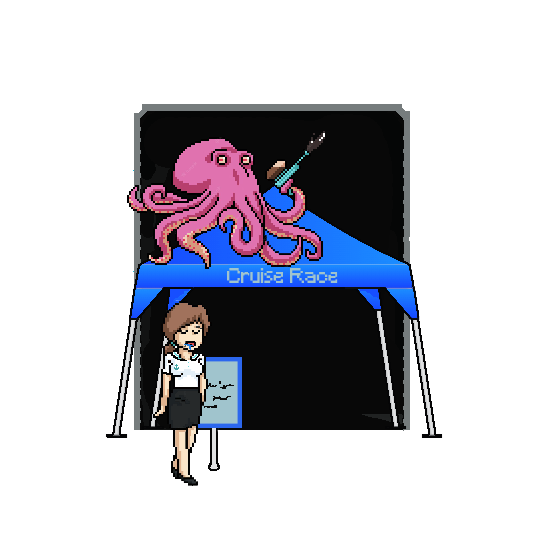
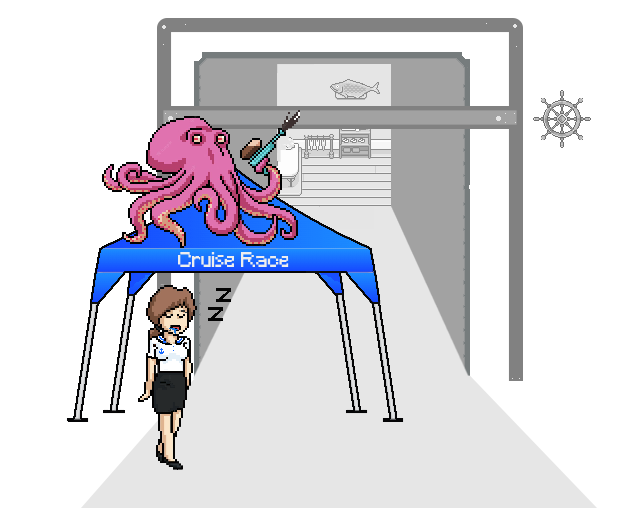
CSS Update

diff --git a/index.html b/index.html
@@ -4,27 +4,67 @@
     <meta charset="UTF-8">
     <meta http-equiv="X-UA-Compatible" content="IE=edge">
     <meta name="viewport" content="width=device-width, initial-scale=1.0">
-    <link href="docs/assets/styles/style.css">
+    <link rel="preconnect" href="https://fonts.googleapis.com">
+    <link rel="preconnect" href="https://fonts.gstatic.com" crossorigin>
+    <link href="https://fonts.googleapis.com/css2?family=Roboto+Mono:ital,wght@0,200;0,300;0,400;0,600;1,100;1,400&display=swap" rel="stylesheet">
+    <link rel="stylesheet" href="docs/assets/styles/style.css">
     <title>Project 1</title>
 </head>
 <body>
     <div>
-    <h1>CRUISE RACE</h1>
-    </div>    
-    <style></style>
-    <style></style>
-    <!-- Create start-screen here  -->
+    <h1><img src="docs/assets/images/porthole.jpg">CRUISE RACE<img src="/docs/assets/images/porthole.jpg"></h1>
+    </div>  
+    <div>
+        <h3><h3>
+        <article></article>    
+    </div>
+        <!-- Create start-screen here  -->
     <!-- On css create a class hidden that has visibility: hidden /display: none -->
     <!-- Once you press start, toggle that class onto the start-screen -->
     <!-- <div id="start-screen">Hello</div>
     <div id="game-over"></div> -->
-    <canvas id="canvas" width="1420" height="500" style="border: 2px solid grey"></canvas>
-    <script src="docs/assets/scripts/controlers.js"></script>
-    <script src="docs/assets/scripts/helpers"></script>
-    <script src="docs/assets/scripts/obstacles"></script>
-    <script src="docs/assets/scripts/door.js"></script>
-    <script src="docs/assets/scripts/player_nd_door.js"></script>
-    <script src="docs/assets/scripts/game.js"></script>
-    <script src="docs/assets/scripts/index.js"></script>
+    <div>
+    <canvas id="canvas" width="1420" height="500"></canvas>
+    </div>
+    <div class="game">
+    <div id="intro">    
+        <h3>Cruise Race</h3>
+        <br>
+        <p>You don't need to rush while on vacation, but granny got lost on the Lisbon layover and ran late to continue her cruise adventure...
+            The ship is about to leave, hurry up - if you can - and help granny get on the cruise.</p>
+        <img src="docs/assets/images/cruise.png">    
+      </div> 
+      <hr> 
+        <div class="instructions">
+        <div id="controls">    
+        <h3>Controls</h3>
+        <br>
+        <p>Use<b style="color: deeppink"> RIGHT </b> and <b style="color: deeppink"> LEFT </b> arrows to move granny - and yes... she walks extremely slowly (Be patient or catch some HELPERS).
+            The <b style="color: deeppink"> SPACE </b> button puts you back in the initial position without restarting the game.</p>
+        </div>    
+        <br>
+        <br>
+        <div id="objects">    
+        <h3>Objects</h3> 
+        <br>
+        <ul>
+            <li #id="li1"><img src="docs/assets/images/ancor.png"><p><b style="color:deeppink">OBSTACLES:</b>How can anchors fall from the sky? Anyway... These elements are heavy and would immediately kill granny. Be extremely careful and avoid them!</p></li>
+            <br>
+            <li #id="li2"><img src="docs/assets/images/drink.png"><p><b style="color:deeppink">HELPERS:</b> A sip of martini for the vacation mood! It will speed up granny so she can get on the cruise ship right on time</p></li>
+            <br>
+            <li #id="li3"><img src="docs/assets/images/key.png"><p><b style="color:deeppink">KEY:</b> Granny is very distracted, so you must catch her boarding pass. Without it, you will not be able to enter the cruise.</p></li>
+        </ul>
+        </div>        
+    </div>  
+    </div>    
+    <div>
+        <script src="docs/assets/scripts/controlers.js"></script>
+        <script src="docs/assets/scripts/helpers"></script>
+        <script src="docs/assets/scripts/obstacles"></script>
+        <script src="docs/assets/scripts/door.js"></script>
+        <script src="docs/assets/scripts/player_nd_door.js"></script>
+        <script src="docs/assets/scripts/game.js"></script>
+        <script src="docs/assets/scripts/index.js"></script>
+    </div>   
 </body>
 </html>

diff --git a/docs/assets/styles/style.css b/docs/assets/styles/style.css
@@ -1,0 +1,126 @@
+@font-face{font-family:arcadeclassic;font-style:normal;font-weight:400;src:local('ArcadeClassic'),url(https://fonts.cdnfonts.com/s/6071/ARCADECLASSIC.woff) format('woff')};
+@font-face {
+    font-family: 'ProggyCleanTTSZBP';
+    font-style: normal;
+    font-weight: 400;
+    src: local('ProggyCleanTTSZBP'), url('https://fonts.cdnfonts.com/s/7514/ProggyCleanSZBP.woff') format('woff');
+}
+@font-face {
+    font-family: 'ProggyCleanTTSZ';
+    font-style: normal;
+    font-weight: 400;
+    src: local('ProggyCleanTTSZ'), url('https://fonts.cdnfonts.com/s/7514/ProggyCleanSZ.woff') format('woff');
+}
+@font-face {
+    font-family: 'ProggyCleanTT';
+    font-style: normal;
+    font-weight: 400;
+    src: local('ProggyCleanTT'), url('https://fonts.cdnfonts.com/s/7514/ProggyClean.woff') format('woff');
+}
+
+
+* {
+    margin: 0;
+    padding: 0;
+}
+
+body {
+    display: flex;
+    flex-wrap: wrap;
+    flex-direction: column;
+    align-content: center;
+}
+
+h1 {
+    padding: 20px;
+    text-align: center;
+    color: darkblue;
+    font-size: 90px;
+    font-family: 'ArcadeClassic', sans-serif
+}
+
+h3 {
+    font-family: 'ArcadeClassic', sans-serif;
+    font-size: 40px;
+    color: deeppink
+}
+
+h1 img {
+    width: 100px;
+    height: 101px;
+    padding: 1px 60px;
+}
+
+p {
+    font-family:'ProggyCleanTT', sans-serif;
+    font-size: 20px;
+}
+
+#canvas {
+    display: flex;
+    flex-wrap: wrap;
+    flex-direction: column;
+    align-content: center;
+    background-color: aquamarine;
+    margin: auto;
+}
+
+.game {
+    display: flex;
+    flex-direction: row;
+    align-content: space-between;
+    columns: 2;
+    padding: 1px 80px;
+    margin: 30px;
+}
+
+#intro {
+    display: flex;
+    flex-wrap: wrap;
+    flex-direction: column;
+    align-content: center;
+    text-align: center;
+    border: solid 1px blue;
+    padding: 40px 50px;
+}
+
+#intro img {
+    width: 674px;
+    height: 500px;
+}
+
+#intro p {
+    text-align: center;
+    font-size: 40px;
+}
+
+.instructions {
+    display: flex;
+    flex-wrap: wrap;
+    flex-direction: column;
+    align-content: center;
+    border: solid 1px blue;
+    padding: 40px 50px;
+}
+
+.instructions ul {
+    list-style: none;
+    padding-left: 11px;
+    padding-right: 20px;
+}
+
+.instructions img {
+    width: 30px;
+    height: 40px;
+}
+#controls {
+    text-align: justify;
+    font-size: 20px;
+    color: darkblue
+}
+#objects  {
+    font-size: 18px;
+    margin: 10px
+}
+
+

diff --git a/docs/assets/scripts/game.js b/docs/assets/scripts/game.js
@@ -11,23 +11,32 @@ class Game {
     this.key = [];
     this.intervalId = null;     //the def. of game's interval
     this.frames = 0;          // Can use for ex. track of the time / frequency of enemies 
+    this.background = new Image();
     this.hasKey = false;
 }
 
    start() {
     this.intervalId = setInterval(this.update, 1000 / 60); //last element is the vel
 }
+drawBackground() {
+  this.background.src = "docs/assets/images/background.png";
+  this.ctx.drawImage(this.background, 0, 0, 1420, 500);
+}
 
    clear() {
-    this.ctx.clearRect(0, 0, this.width, this.height);
-    ctx.fillStyle = 'lightblue'
-    ctx.fillRect (0, 0, 1420, 400);
-    ctx.fillStyle = 'lightgrey'
-    ctx.fillRect (0, 400, 1420, 100);
+    // this.image = new Image();
+    // this.image.src = "docs/assetes/images/background";
+    // ctx.drawImage(this.image, this.x, this.y, this.w, this.h);
+    // this.ctx.clearRect(0, 0, this.width, this.height);
+    // ctx.fillStyle = 'lightblue'
+    // ctx.fillRect (0, 0, 1420, 400);
+    // ctx.fillStyle = 'lightgrey'
+    // ctx.fillRect (0, 400, 1420, 100);
 }
 
    update = () => {
     this.frames++;           //increase things based on frames - see the func below
+    this.drawBackground();
     this.clear();
     this.door.draw();
     this.player.draw();
@@ -65,7 +74,7 @@ class Game {
      this.turbo.push(new Turbo(Math.floor(Math.random() * 1300), 0, 30, 50, 'white'));
  }
   if (this.frames % 900 === 0 ){ 
-     this.key.push(new Key(Math.floor(Math.random() * 1300), 0, 60, 60, 'red'));
+     this.key.push(new Key(Math.floor(Math.random() * 1300), 0, 80, 80, 'red'));
  }
 }
 stop() {

diff --git a/docs/assets/scripts/index.js b/docs/assets/scripts/index.js
@@ -3,15 +3,8 @@ const ctx = canvas.getContext('2d');
 
 let speedX = canvas.width
 
-
-//Background
-ctx.fillStyle = 'lightblue'
-ctx.fillRect (0, 0, 1420, 400);
-ctx.fillStyle = 'lightgrey'
-ctx.fillRect (0, 100, 1420, 100);
-
 //Player and Door (Player folder)
-const door = new Door(10, 20, 480, 500, 'blue');
+const door = new Door(2, 7, 617, 522, 'blue');
 const player = new Player(1320, 340, 100, 150);
 
  //Game (Game folder)
